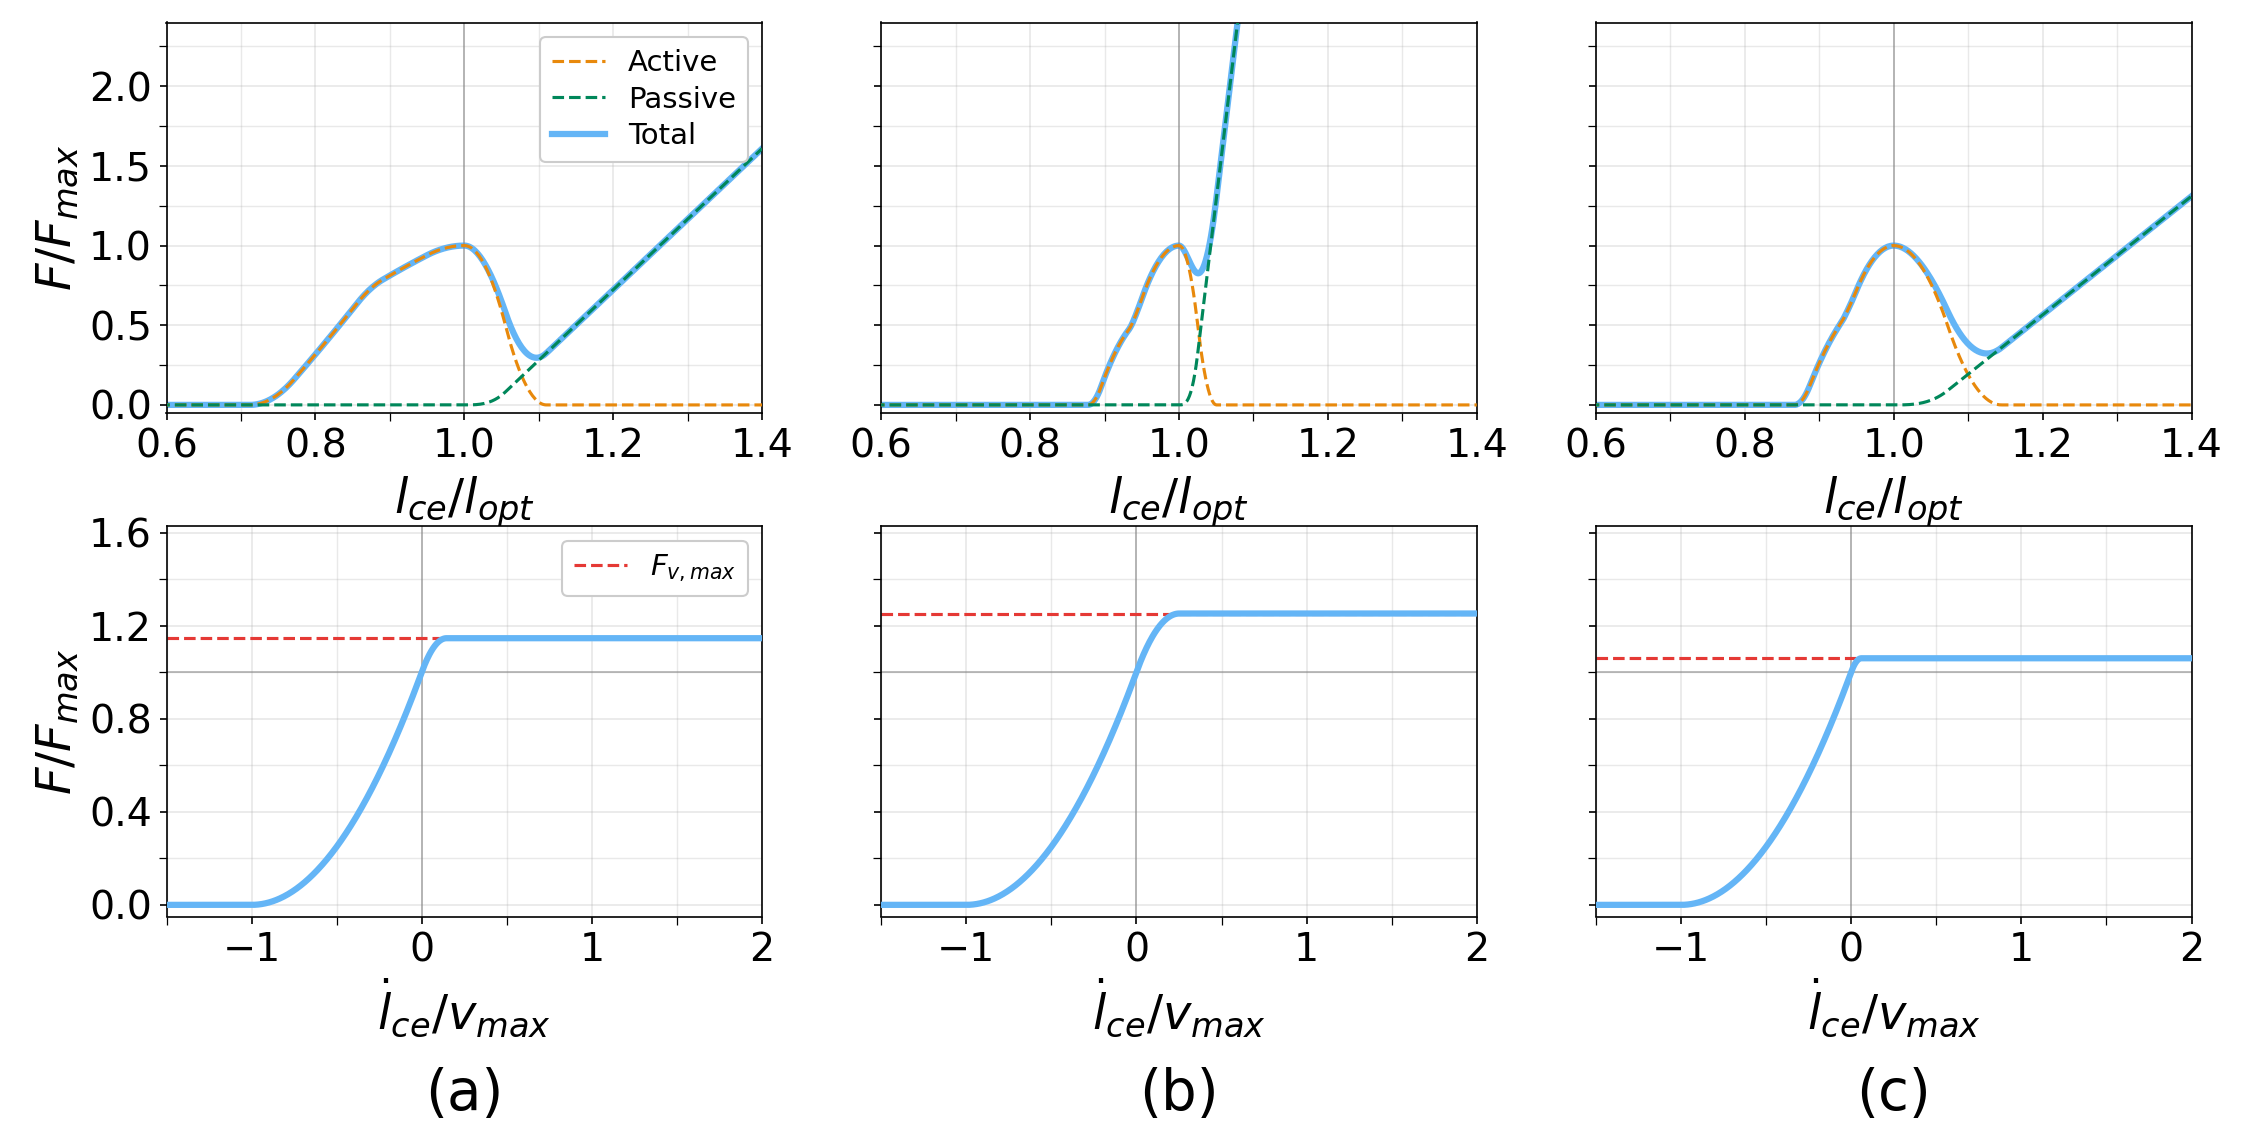
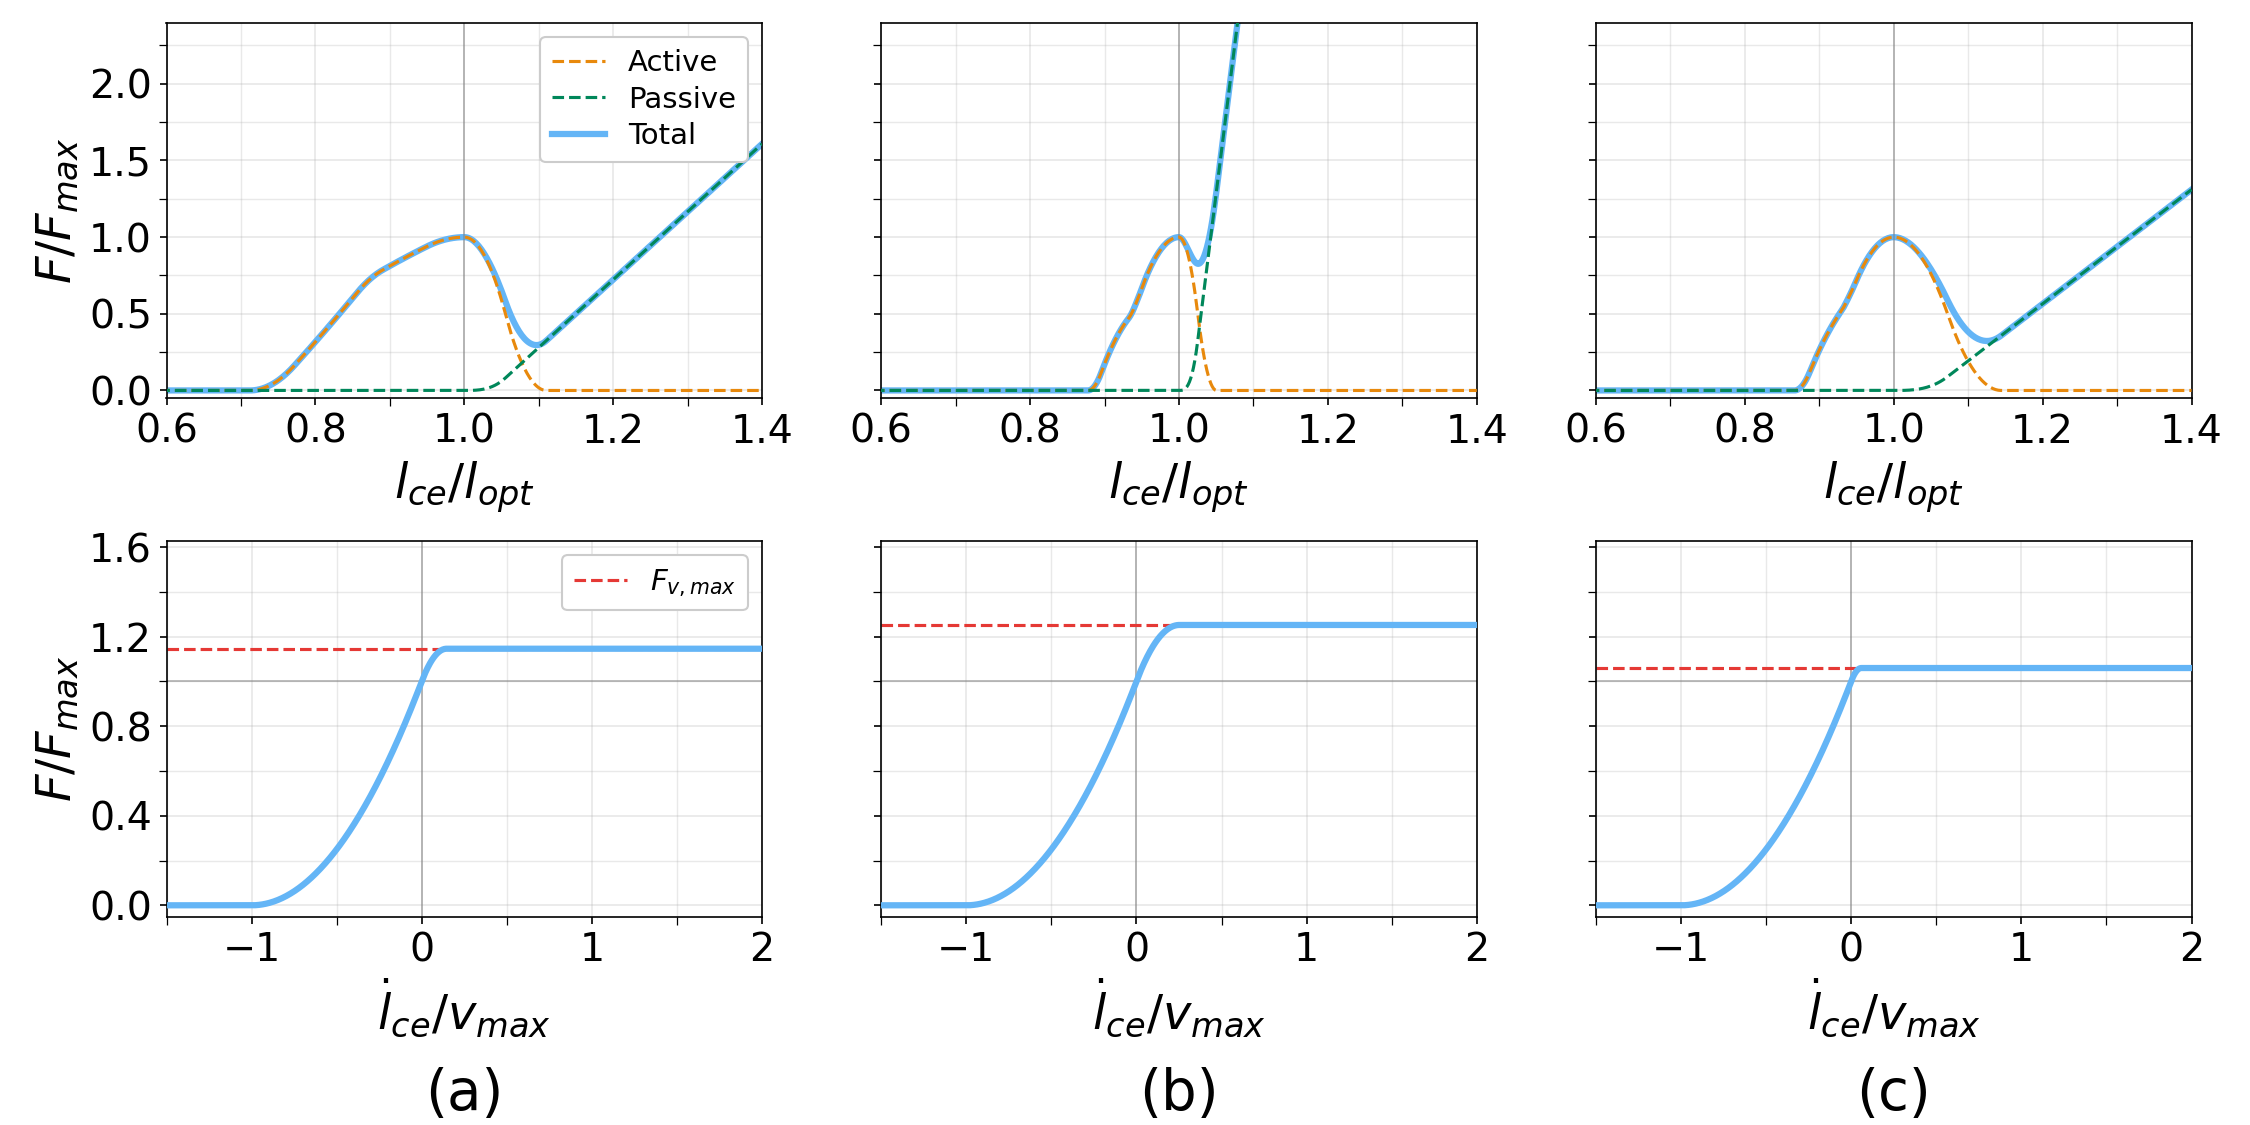
edit spacing on plot for poster

diff --git a/analysis/plot/plot_hill_curves.py b/analysis/plot/plot_hill_curves.py
@@ -199,7 +199,7 @@ def main():
     # the inter-row gap only has to hold the upper x-label plus the lower ticks.
     fig.subplots_adjust(left=AXES_LEFT_IN / FIG_W, right=0.974,
                         top=1 - 0.15 / FIG_H, bottom=1.39 / FIG_H,
-                        hspace=0.29, wspace=0.20)
+                        hspace=0.38, wspace=0.20)
 
     for ax, tag in zip(axes[-1], SUBFIG_TAGS):
         box = ax.get_position()
